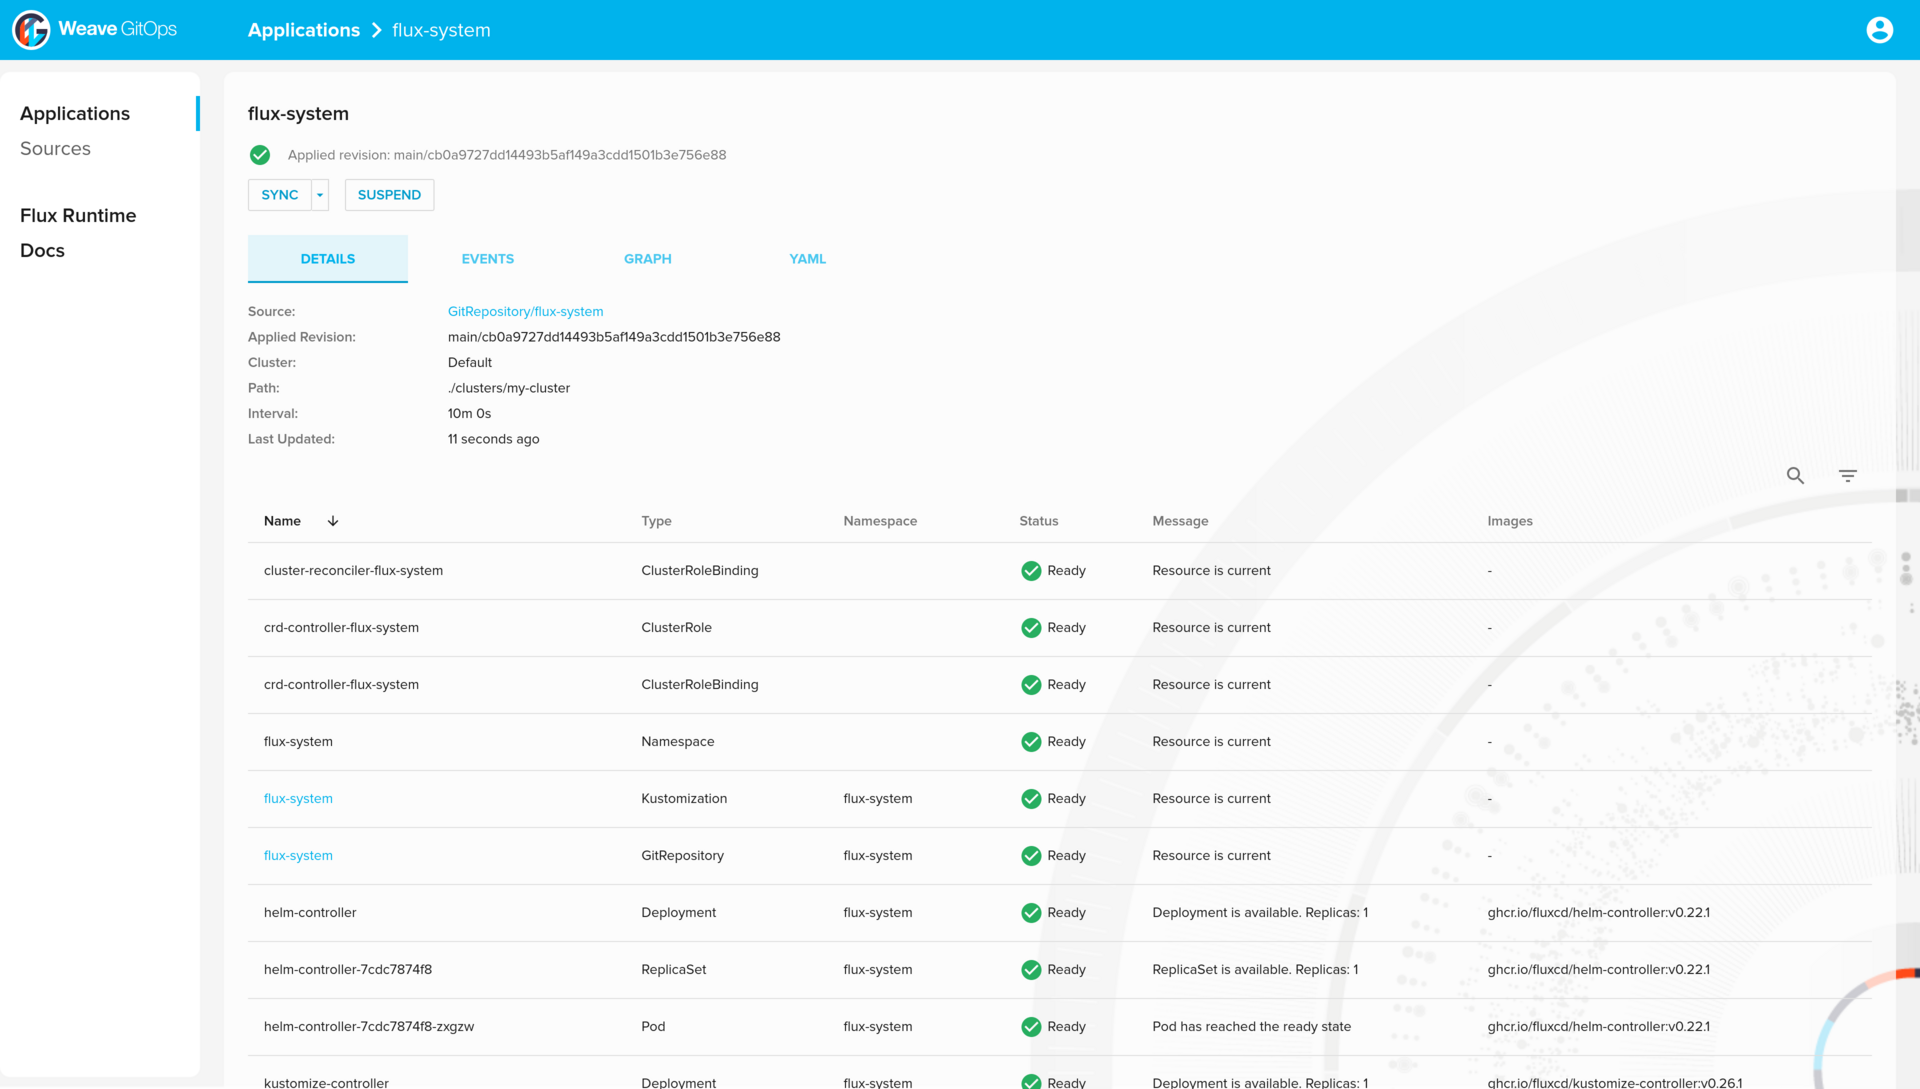
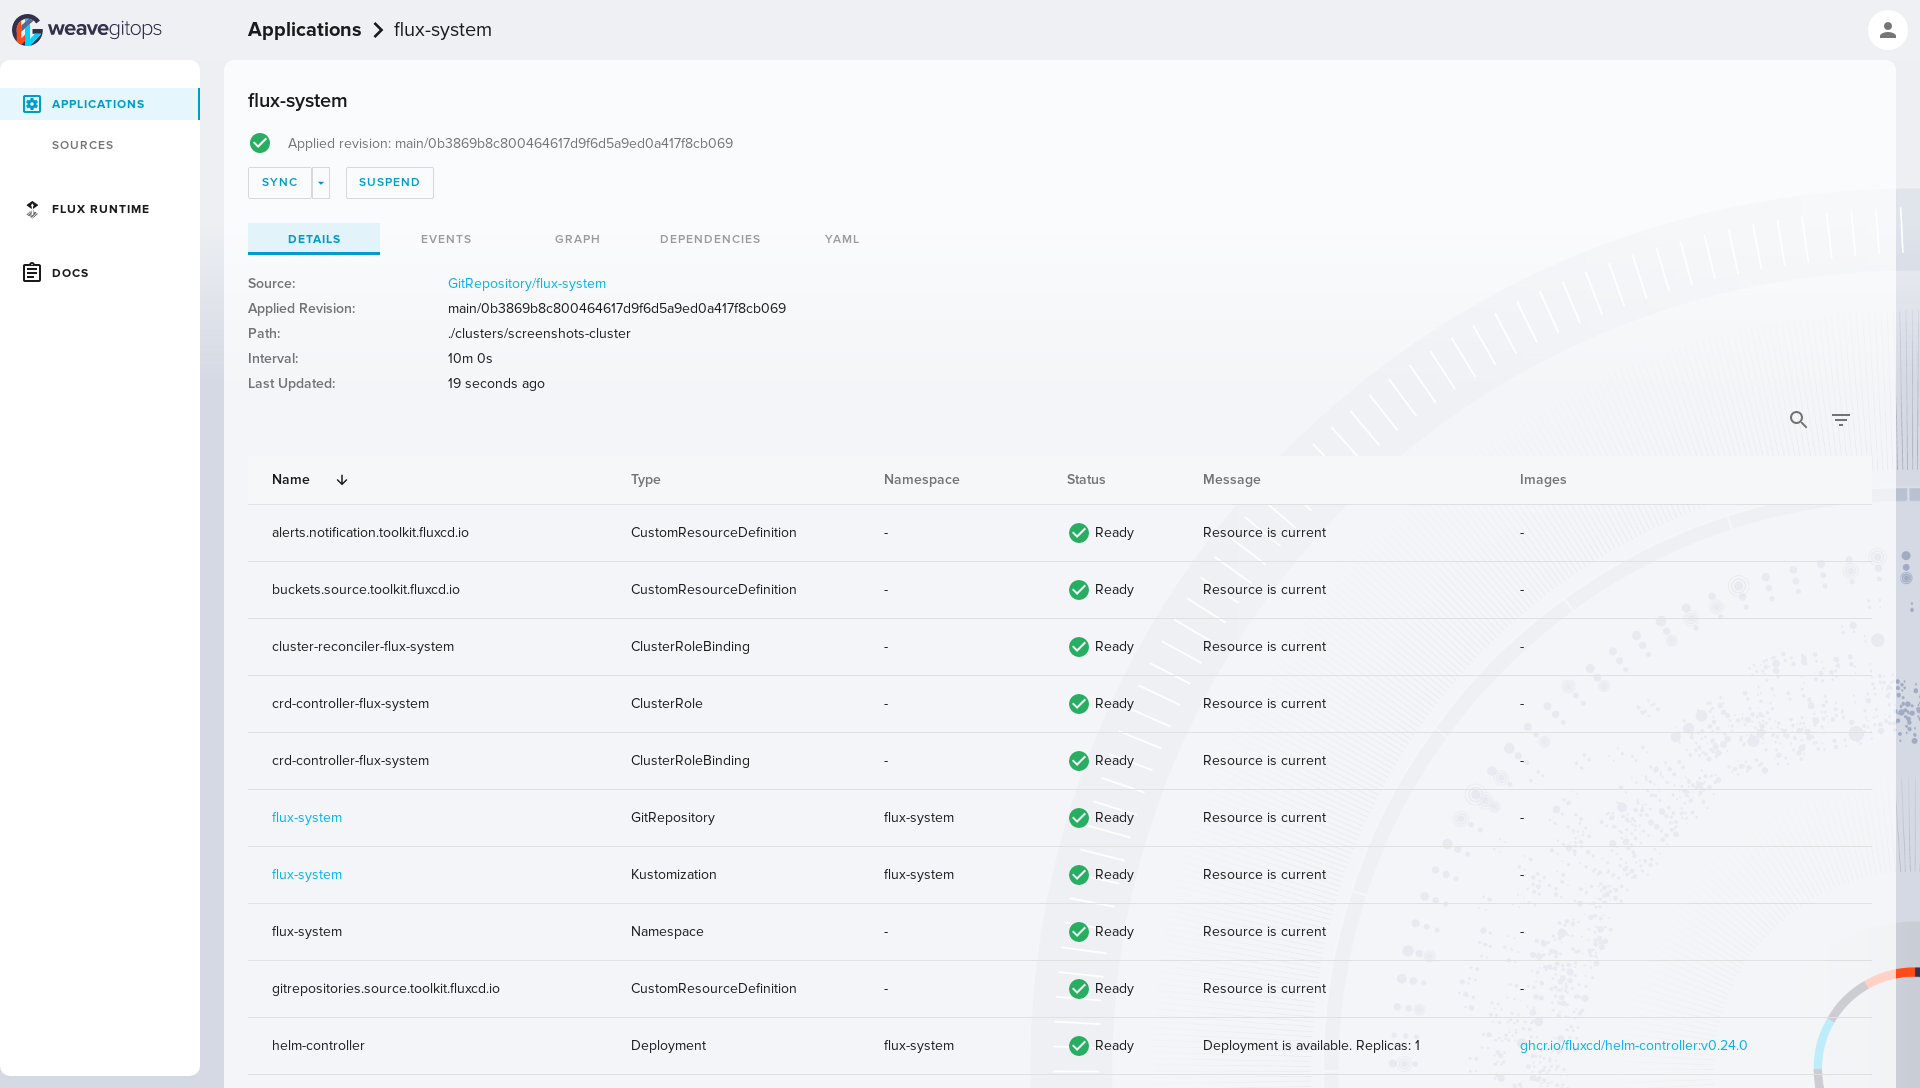
docs: Update getting started
This mainly refreshes the screenshots, because they were badly out of
date.

This also adds the CRD view from the flux runtime, and adds a mention
of dependencies.

It doesn't add any actual explanations about dependencies though, or a
screenshot, nor does it add anything about notifications.

It does add a random script that worked for me to re-generate the
screenshots. I doubt it will work for anybody else ever, but for next
release I can just re-run it and I won't need to do the boring part of
updating the documentation.

diff --git a/website/update-screenshots.js b/website/update-screenshots.js
@@ -1,0 +1,286 @@
+// This may help you refresh your screenshots - but most likely it'll
+// be moody and not work.
+const puppeteer = require("puppeteer");
+const { execSync, spawn, spawnSync } = require("child_process");
+
+const k8sVersion = "1.25.0";
+const kindName = "gitops-screenshots";
+const fluxVersion = "0.34.0";
+const githubUser = process.env.GITHUB_USER;
+if (!githubUser) {
+  console.log("You need to export a GITHUB_USER");
+  process.exit(1);
+}
+
+const gitopsTag = process.argv[2];
+if (!gitopsTag) {
+  console.log("You need to provide the gitops tag you want");
+  process.exit(1);
+}
+
+function execPrint(command) {
+  return execSync(command, { stdio: "inherit" });
+}
+
+execPrint(`kind delete cluster --name=${kindName} || :`);
+execPrint(
+  `kind create cluster --name=${kindName} --image=kindest/node:v${k8sVersion} || :`
+);
+execPrint(`kubectl config set-context kind-${kindName}`);
+execPrint(`rm ./flux || :`);
+execPrint(
+  `curl -L https://github.com/fluxcd/flux2/releases/download/v${fluxVersion}/flux_${fluxVersion}_linux_amd64.tar.gz | tar xzf -`
+);
+execPrint(
+  `./flux bootstrap github --owner=${githubUser} --repository=fleet-infra --branch=main --path=./clusters/screenshots-cluster --personal`
+);
+execPrint(`kubectl apply -f - <<EOF
+---
+apiVersion: source.toolkit.fluxcd.io/v1beta2
+kind: HelmRepository
+metadata:
+  annotations:
+    metadata.weave.works/description: This is the Weave GitOps Dashboard.  It provides
+      a simple way to get insights into your GitOps workloads.
+  labels:
+    app.kubernetes.io/component: ui
+    app.kubernetes.io/created-by: weave-gitops-cli
+    app.kubernetes.io/name: weave-gitops-dashboard
+    app.kubernetes.io/part-of: weave-gitops
+  name: ww-gitops
+  namespace: flux-system
+spec:
+  interval: 1h0m0s
+  url: https://helm.gitops.weave.works
+---
+apiVersion: helm.toolkit.fluxcd.io/v2beta1
+kind: HelmRelease
+metadata:
+  name: ww-gitops
+  namespace: flux-system
+spec:
+  chart:
+    spec:
+      chart: weave-gitops
+      sourceRef:
+        kind: HelmRepository
+        name: ww-gitops
+  interval: 1h0m0s
+  values:
+    image:
+      tag: ${gitopsTag}
+    adminUser:
+      create: true
+      passwordHash: \\$2a\\$10\\$jWoc1KU330tgyeXYgIPmCO/32AXG.hmLvB2UTgIlhRw3wT1kUlruq
+      username: admin
+EOF`);
+
+(async () => {
+  let i = 0;
+  while (i < 300) {
+    const result = spawnSync(
+      "kubectl get pod -n flux-system | grep ww-gitops | grep -q Running",
+      { shell: true }
+    );
+    if (result.status === 0) {
+      break;
+    }
+    await new Promise((r) => setTimeout(r, 1000));
+    i += 1;
+  }
+  childProcess = spawn(
+    "kubectl",
+    [
+      "port-forward",
+      "-n",
+      "flux-system",
+      "svc/ww-gitops-weave-gitops",
+      "9001:9001",
+    ],
+    { detached: true, stdio: "inherit" }
+  );
+
+  const browser = await puppeteer.launch();
+  const page = await browser.newPage();
+  page.setViewport({ width: 1920, height: 1088 });
+
+  i = 0;
+  while (i < 300) {
+    try {
+      await page.goto("http://localhost:9001");
+      await page.waitForSelector("#email");
+      break;
+    } catch (e) {
+      console.log(e);
+      await new Promise((r) => setTimeout(r, 1000));
+      i += 1;
+    }
+  }
+  try {
+    await page.waitForTimeout(500); // It takes time for the blue background to show up
+    await page.screenshot({ path: "static/img/dashboard-login.png" });
+
+    await page.type("#email", "admin");
+    await page.type("#password", "dev");
+    const buttons = await page.$$("button");
+    buttons[buttons.length - 1].click();
+
+    await page.waitForSelector("[role=tablist]");
+    await page.waitForSelector('[aria-label="simple table"]');
+    await page.waitForTimeout(500);
+    await page.screenshot({
+      path: "static/img/dashboard-applications-overview.png",
+    });
+
+    await page.click('a[href="/sources"]');
+    await page.waitForSelector('a[href="/sources"].selected');
+    await page.waitForSelector('[aria-label="simple table"]');
+    await page.waitForTimeout(500);
+    await page.screenshot({ path: "static/img/dashboard-sources.png" });
+
+    await page.click('a[href="/flux_runtime"]');
+    await page.waitForSelector('a[href="/flux_runtime"].selected');
+    await page.waitForSelector('[aria-label="simple table"]');
+    await page.waitForTimeout(500);
+    await page.screenshot({ path: "static/img/dashboard-flux-runtime.png" });
+
+    await page.click('a[href="/flux_runtime/crds"]');
+    await page.waitForSelector('a[href="/flux_runtime/crds"].active-tab');
+    await page.waitForSelector('[aria-label="simple table"]');
+    await page.waitForTimeout(500);
+    await page.screenshot({
+      path: "static/img/dashboard-flux-runtime-crd.png",
+    });
+
+    await page.click('a[href="/applications"]');
+    await page.waitForSelector('a[href="/applications"].selected');
+    await page.waitForXPath('//tr//td[2]//a[contains(span, "flux-system")]');
+    let link = await page.$x('//tr//td[2]//a[contains(span, "flux-system")]');
+    await link[0].click();
+
+    await page.waitForXPath('//a[contains(span, "GitRepository")]');
+    await page.waitForTimeout(500);
+    await page.screenshot({
+      path: "static/img/dashboard-application-flux.png",
+    });
+
+    link = await page.$x('//a[contains(span, "Events")]');
+    await link[0].click();
+    await page.waitForTimeout(500);
+    await page.screenshot({
+      path: "static/img/dashboard-application-events.png",
+    });
+
+    link = await page.$x('//a[contains(span, "Graph")]');
+    await link[0].click();
+    await page.waitForTimeout(500);
+    await page.screenshot({
+      path: "static/img/dashboard-application-reconciliation.png",
+    });
+
+    link = await page.$x('//a[contains(span, "Yaml")]');
+    await link[0].click();
+    await page.waitForTimeout(500);
+    await page.screenshot({
+      path: "static/img/dashboard-application-yaml.png",
+    });
+
+    await page.click('a[href="/sources"]');
+    await page.waitForSelector('a[href="/sources"].selected');
+    await page.waitForXPath('//tr//td[2]//a[contains(span, "flux-system")]');
+    link = await page.$x('//tr//td[2]//a[contains(span, "flux-system")]');
+    await link[0].click();
+
+    await page.waitForXPath('//td[contains(span, "Ref:")]');
+    await page.waitForTimeout(500);
+    await page.screenshot({ path: "static/img/dashboard-source-flux.png" });
+
+    execPrint(
+      `flux create source git podinfo --url=https://github.com/stefanprodan/podinfo --branch=master --interval=30s`
+    );
+    execPrint(`(flux delete kustomization podinfo -s && sleep 5) || :`);
+    execPrint(
+      `flux create kustomization podinfo --target-namespace=flux-system --source=podinfo --path="./kustomize" --prune=true --interval=5m`
+    );
+
+    await page.click('a[href="/applications"]');
+    await page.waitForSelector('a[href="/applications"].selected');
+    await page.waitForXPath('//tr//td[2]//a[contains(span, "flux-system")]');
+    await page.waitForTimeout(500);
+    await page.screenshot({
+      path: "static/img/dashboard-applications-with-podinfo.png",
+    });
+
+    link = await page.$x('//tr//td[2]//a[contains(span, "podinfo")]');
+    await link[0].click();
+    await page.waitForXPath('//a[contains(span, "GitRepository")]');
+    await page.waitForTimeout(500);
+    await page.screenshot({ path: "static/img/dashboard-podinfo-details.png" });
+
+    execPrint(`kubectl apply -f - <<EOF
+---
+apiVersion: kustomize.toolkit.fluxcd.io/v1beta2
+kind: Kustomization
+metadata:
+  name: podinfo
+  namespace: flux-system
+spec:
+  interval: 60m0s
+  path: ./kustomize
+  prune: true
+  sourceRef:
+    kind: GitRepository
+    name: podinfo
+  targetNamespace: flux-system
+  patches:
+    - patch: |-
+        apiVersion: autoscaling/v2beta2
+        kind: HorizontalPodAutoscaler
+        metadata:
+          name: podinfo
+        spec:
+          minReplicas: 3
+      target:
+        name: podinfo
+        kind: HorizontalPodAutoscaler
+EOF`);
+    execPrint(`flux reconcile kustomization podinfo`);
+    await page.waitForXPath(
+      '//table[count(//tr//td[2][contains(span, "Pod")]) = 4]'
+    ); // HorizontalPodAutoscaler causes off-by-one
+    await page.waitForTimeout(500);
+    await page.screenshot({ path: "static/img/dashboard-podinfo-updated.png" });
+
+    link = await page.$x('//button[contains(span, "Suspend")]');
+    await link[0].click();
+    await page.waitForTimeout(5500); // Wait for banner to go away
+    await page.screenshot({
+      path: "static/img/dashboard-podinfo-details-suspended.png",
+    });
+
+    await page.click('a[href="/applications"]');
+    await page.waitForSelector('a[href="/applications"].selected');
+    await page.waitForXPath('//tr//td[2]//a[contains(span, "flux-system")]');
+    await page.waitForTimeout(500);
+    await page.screenshot({
+      path: "static/img/dashboard-podinfo-suspended.png",
+    });
+
+    link = await page.$x('//tr//td[2]//a[contains(span, "podinfo")]');
+    await link[0].click();
+    await page.waitForTimeout(500);
+    link = await page.$x('//button[contains(span, "Resume")]');
+    await link[0].click();
+    await page.waitForTimeout(5500); // Wait for banner to go away
+    await page.screenshot({ path: "static/img/dashboard-podinfo-updated.png" });
+  } catch (e) {
+    await page.screenshot({ path: "error.png" });
+    await browser.close();
+    childProcess.kill();
+
+    throw e;
+  }
+
+  await browser.close();
+  childProcess.kill();
+})();
